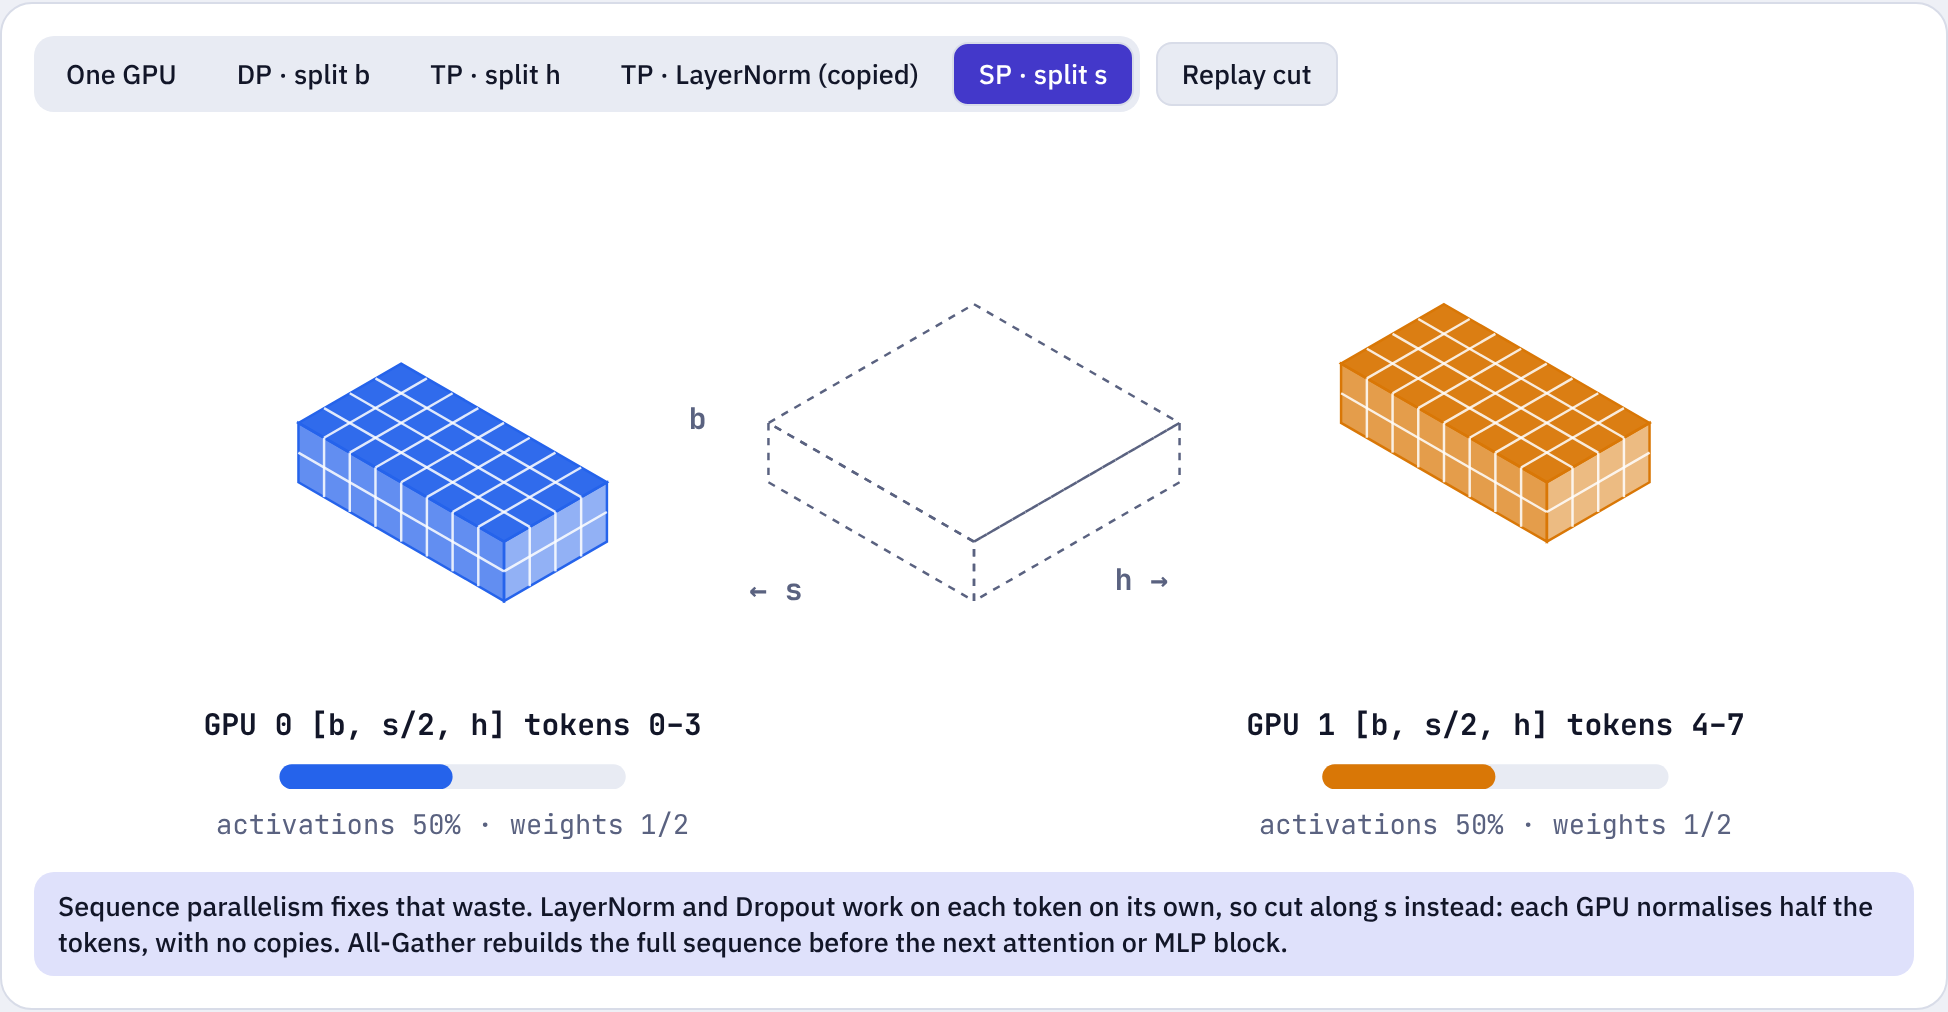
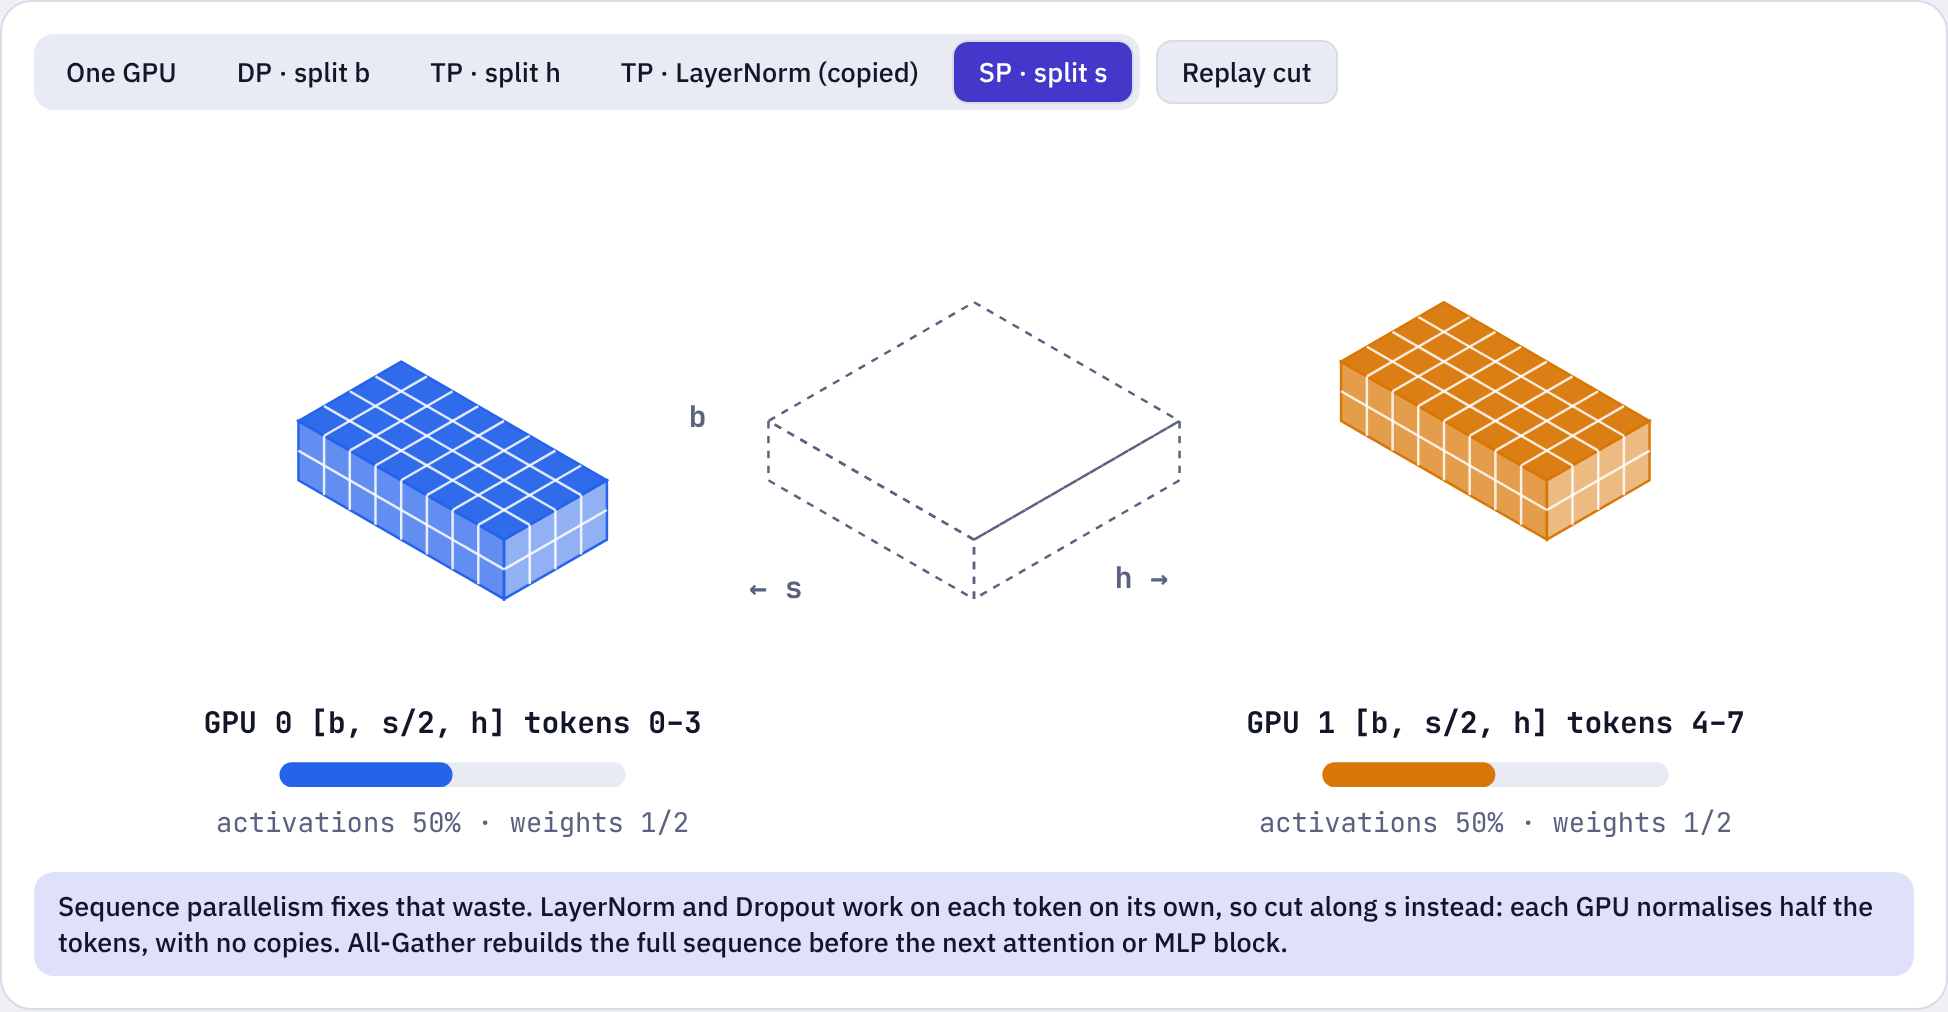
LLM inference post: add 'why models get split' step with two new figures
New Step 2 covers why one GPU isn't enough and what DP, PP, TP and SP each
cut, plus the column/row matmul trick behind TP. Later steps renumbered;
figures regenerated from the expanded interactive page (generator updated
for the new section ids).

Claude-Session: https://claude.ai/code/session_01UFQWSUsJMaVbTV8uBDUF1U

diff --git a/posts/2026-11-14-how-llm-inference-works-visual-guide/index.html b/posts/2026-11-14-how-llm-inference-works-visual-guide/index.html
@@ -45,7 +45,28 @@
 
 <p>Once you have watched Q split into heads, tensor parallelism stops being abstract. It is the same cut, with the heads sent to different GPUs.</p>
 
-<h2>Step 2: why splitting along s saves memory when splitting along h already did</h2>
+<h2>Step 2: why models get split across GPUs, and the four ways to do it</h2>
+
+<p>Weights alone outgrow a GPU quickly. A 70B-parameter model at 2 bytes per parameter is 140 GB, already more than one 80 GB GPU holds, and that is before any KV cache. A 405B model is 810 GB. So parallelism first exists to make the model <strong>fit</strong>. It also serves two other goals, more <strong>throughput</strong> and lower <strong>latency</strong>, and each strategy helps only some of the three.</p>
+
+<img src="https://raw.githubusercontent.com/ylnhari/blog/main/posts/2026-11-14-how-llm-inference-works-visual-guide/images/07-gpus-needed.png" alt="Each box is one 80 GB GPU filled with FP16 weights only. Llama 2 7B and 13B fit on one GPU, Llama 2 70B needs at least two, and Llama 3.1 405B needs at least eleven, before any KV cache.">
+
+<p>Every strategy answers one question: <strong>which dimension of which tensor gets cut, and what has to travel between GPUs as a result?</strong></p>
+
+<ul>
+<li><strong>Data parallelism</strong> copies the whole model and splits the batch <code>b</code>. Throughput scales almost perfectly and GPUs never talk at inference, but it is useless if the model does not fit on one GPU.</li>
+<li><strong>Pipeline parallelism</strong> splits the stack of layers. Each GPU holds a slice of the layers and passes a small <code>[b, s, h]</code> activation to the next. It helps a model fit, but one request still walks through every stage in turn, and stages idle while they wait.</li>
+<li><strong>Tensor parallelism</strong> splits the weight matrices inside every layer: attention by heads, the MLP by columns then rows, the embedding and LM head by vocabulary. Every GPU works on every layer for the same sequences, which makes each request faster. The price is communication inside every layer.</li>
+<li><strong>Sequence parallelism</strong> splits what tensor parallelism leaves copied (Step 3).</li>
+</ul>
+
+<p>Tensor parallelism rests on one neat trick. Split the MLP's first weight by <em>columns</em> and the second by <em>rows</em>. Each GPU can then run both matmuls and the nonlinearity between them on its own half, and a single All-Reduce at the end adds up the partial results:</p>
+
+<img src="https://raw.githubusercontent.com/ylnhari/blog/main/posts/2026-11-14-how-llm-inference-works-visual-guide/images/08-tp-matmul-trick.png" alt="Tensor parallelism in the MLP: A is split by columns and B by rows, so each GPU computes GeLU on its own half of Y and a partial sum of Z, and one All-Reduce combines them. There is no communication between the two matmuls.">
+
+<p>That All-Reduce happens twice in every layer, so tensor parallelism needs the fast links <em>inside</em> one server. Real deployments therefore mix strategies: tensor parallelism within a server, pipeline parallelism across servers, and data parallelism to add replicas for traffic. The <a href="https://ylnhari.github.io/ml-scratchpad/llm-inference-visualized/">interactive page</a> walks through each one, and how they combine on a 16-GPU cluster.</p>
+
+<h2>Step 3: why splitting along s saves memory when splitting along h already did</h2>
 
 <p>A natural objection to sequence parallelism: whether a GPU holds all the tokens or half of them, the total data is the same, so where does the saving come from? The answer is in what tensor parallelism leaves behind. Inside attention and the MLP, tensor parallelism cuts along h, so each GPU holds <code>[b, s, h/2]</code> and nothing is duplicated (image at the top). Between those blocks, an All-Reduce leaves <em>every</em> GPU with the full <code>[b, s, h]</code>. LayerNorm then needs each token's whole h-vector to compute a mean and variance, so it can't be cut along h. Each GPU therefore stores a complete copy.</p>
 
@@ -61,7 +82,7 @@
 
 <blockquote>The total data is the same. Replication is what you pay for.</blockquote>
 
-<h2>Step 3: put real numbers on memory</h2>
+<h2>Step 4: put real numbers on memory</h2>
 
 <p>Inference is mostly a memory problem. The NVIDIA post works through two figures, and the page lets you move them. A 7B model in FP16 needs <a href="https://developer.nvidia.com/blog/mastering-llm-techniques-inference-optimization/">about 14 GB</a> for its weights. The KV cache costs <code>batch × seq × 2 × layers × hidden × bytes</code>, which for Llama 2 7B at batch 1 and 4,096 tokens is <a href="https://developer.nvidia.com/blog/mastering-llm-techniques-inference-optimization/">about 2 GB</a>. Drag the batch and sequence sliders and watch the cache crowd the weights off an 80 GB GPU. Then switch to the GQA preset and see why grouped-query attention matters.</p>
 
@@ -69,9 +90,9 @@
 
 <p>The rest of Part II gives the same treatment to static vs in-flight batching, pipeline bubbles, MHA vs GQA vs MQA, FlashAttention tiling, PagedAttention block tables, quantization with an outlier, 2:4 sparsity, distillation soft targets and speculative decoding.</p>
 
-<h2>Step 4: understand why training needs so much more</h2>
+<h2>Step 5: understand why training needs so much more</h2>
 
-<p>The activation-memory problem in Step 2 is really a <em>training</em> problem. The backward pass needs the input that went into every layer, because every weight gradient is the saved input transposed times the incoming gradient. Inference never runs backward, so it can throw activations away as soon as they're used. Part III draws the backward pass with the same shapes and ends on this comparison:</p>
+<p>The activation-memory problem in Step 3 is really a <em>training</em> problem. The backward pass needs the input that went into every layer, because every weight gradient is the saved input transposed times the incoming gradient. Inference never runs backward, so it can throw activations away as soon as they're used. Part III draws the backward pass with the same shapes and ends on this comparison:</p>
 
 <img src="https://raw.githubusercontent.com/ylnhari/blog/main/posts/2026-11-14-how-llm-inference-works-visual-guide/images/06-training-vs-inference-memory.png" alt="Memory for a 7B model at 4,096 tokens: about 16 GB for inference (weights plus KV cache) against about 216 GB for training (weights, gradients, fp32 master weights, two Adam moments and stored activations). Training needs several GPUs before activations are even counted.">
 

diff --git a/posts/2026-11-14-how-llm-inference-works-visual-guide/charts/make_screens.py b/posts/2026-11-14-how-llm-inference-works-visual-guide/charts/make_screens.py
@@ -12,9 +12,11 @@ with sync_playwright() as p:
     pg.goto(SRC); pg.wait_for_timeout(800)
     for _ in range(4): pg.click("#an-next")              # anatomy stage 5: split heads
     pg.locator("#anatomy .fig").screenshot(path=OUT + "01-forward-pass-heads.png")
-    pg.locator("#parallel .fig").first.screenshot(path=OUT + "02-tensor-split-h.png")
+    pg.locator("#par-sp .fig").first.screenshot(path=OUT + "02-tensor-split-h.png")
     pg.click('#cube-seg button:text-is("SP · split s")')
-    pg.locator("#parallel .fig").first.screenshot(path=OUT + "03-sequence-split-s.png")
+    pg.locator("#par-sp .fig").first.screenshot(path=OUT + "03-sequence-split-s.png")
+    pg.locator("#par-why .fig").screenshot(path=OUT + "07-gpus-needed.png")
+    pg.locator("#par-tpc .fig").screenshot(path=OUT + "08-tp-matmul-trick.png")
     for _ in range(3): pg.click("#tp-next")              # TP layer walk: out-proj All-Reduce
     pg.locator("#par-tp").screenshot(path=OUT + "04-tp-layer-allreduce.png")
     pg.locator("#kv .fig").screenshot(path=OUT + "05-kv-cache-calculator.png")
